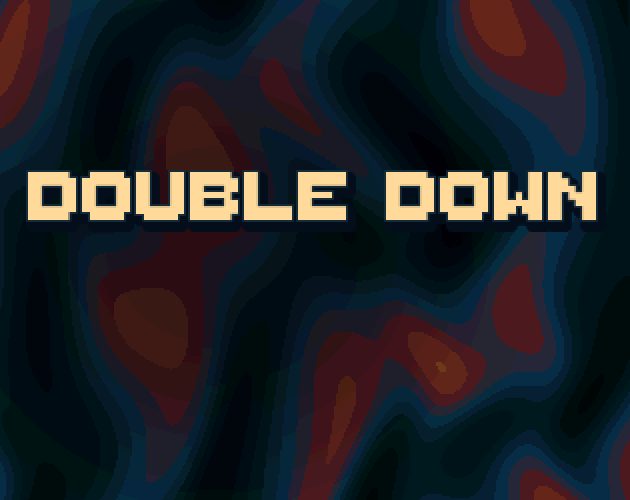
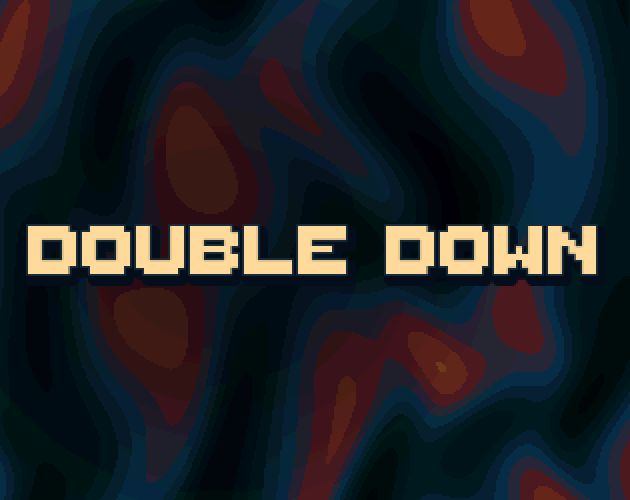
Prepare WebGL itch release and prismatic card shader

Changed region(s): [[0.0302, 0.33, 0.573, 0.57], [0.6032, 0.33, 0.9651, 0.57]]

diff --git a/docs/itch/DESCRIPTION_ITCH.html b/docs/itch/DESCRIPTION_ITCH.html
@@ -1,9 +1,9 @@
 <h2>Español</h2>
 <p><strong>DOUBLE DOWN</strong> mezcla blackjack y construcción de mazos. Supera la meta antes de agotar tus manos, compra reliquias y mejora tus cartas. Cada tercera ronda cambia las reglas con un jefe.</p>
 <p><strong>Cómo jugar:</strong> elige una reliquia inicial. Pide cartas o plántate sin pasar de 21. Gana puntos, visita la tienda y usa consumibles desde el mazo. Ratón y teclado; puedes cambiar las teclas en Ajustes y el idioma en el menú.</p>
-<p>Descarga el ZIP para Windows, extráelo y abre <strong>DoubleDown.exe</strong>.</p>
+<p><strong>Juega directamente en el navegador.</strong></p>
 
 <h2>English</h2>
 <p><strong>DOUBLE DOWN</strong> blends blackjack with deck building. Reach the target before you run out of hands, buy relics and upgrade your cards. Every third round brings a boss rule.</p>
 <p><strong>How to play:</strong> choose a starting relic. Hit or stand without going over 21. Score points, visit the shop and use consumables from your deck. Mouse and keyboard; rebind keys in Settings and switch languages in the menu.</p>
-<p>Download the Windows ZIP, extract it and launch <strong>DoubleDown.exe</strong>.</p>
+<p><strong>Play directly in your browser.</strong></p>

diff --git a/Assets/_Game/Editor/PortfolioBuild.cs b/Assets/_Game/Editor/PortfolioBuild.cs
@@ -40,5 +40,33 @@ namespace DoubleDown.Editor
             Directory.CreateDirectory("docs");File.WriteAllText("docs/PORTFOLIO_BUILD_RESULT.txt",$"Result: {report.summary.result}\nErrors: {report.summary.totalErrors}\nWarnings: {report.summary.totalWarnings}\nBytes: {report.summary.totalSize}\nUnity: {Application.unityVersion}\n");
             if(report.summary.result!=BuildResult.Succeeded || report.summary.totalErrors>0)throw new InvalidOperationException("Portfolio build failed");
         }
+        [MenuItem("Double Down/Portfolio/Build WebGL for itch.io")]
+        public static void BuildWeb()
+        {
+            Prepare();
+            PlayerSettings.WebGL.compressionFormat=WebGLCompressionFormat.Gzip;
+            PlayerSettings.WebGL.decompressionFallback=false;
+            var target=Environment.GetEnvironmentVariable("DOUBLEDOWN_WEB_BUILD_DIR");
+            if(string.IsNullOrWhiteSpace(target))target="Builds/DoubleDown-0.1.1-WebGL";
+            Directory.CreateDirectory(target);
+            var report=BuildPipeline.BuildPlayer(new BuildPlayerOptions
+            {
+                scenes=new[]{Menu,Table},locationPathName=target,target=BuildTarget.WebGL,options=BuildOptions.None
+            });
+              if(report.summary.result==BuildResult.Succeeded)
+              {
+                  var index=Path.Combine(target,"index.html");
+                  var html=File.ReadAllText(index)
+                      .Replace("Unity Web Player | DOUBLE DOWN","DOUBLE DOWN")
+                      .Replace("width=960 height=600","width=960 height=540")
+                      .Replace("canvas.style.height = \"600px\";","canvas.style.height = \"540px\";")
+                      .Replace("</head>","<style>html,body{width:100%;height:100%;overflow:hidden;background:#111a26}#unity-container.unity-desktop{position:relative;left:auto;top:auto;transform:none;width:min(100vw,177.7778vh);height:min(100vh,56.25vw);margin:auto}#unity-canvas{width:100%!important;height:100%!important;image-rendering:pixelated}#unity-footer,#unity-logo{display:none!important}#unity-loading-bar{z-index:2}</style></head>");
+                  File.WriteAllText(index,html);
+              }
+            Directory.CreateDirectory("docs");
+            File.WriteAllText("docs/WEB_BUILD_RESULT.txt",$"Result: {report.summary.result}\nErrors: {report.summary.totalErrors}\nWarnings: {report.summary.totalWarnings}\nBytes: {report.summary.totalSize}\nUnity: {Application.unityVersion}\n");
+            if(report.summary.result!=BuildResult.Succeeded || report.summary.totalErrors>0)
+                throw new InvalidOperationException("WebGL build failed");
+        }
     }
 }

diff --git a/Assets/_Game/Tests/PlayMode/PresentationSettingsTests.cs b/Assets/_Game/Tests/PlayMode/PresentationSettingsTests.cs
@@ -304,6 +304,28 @@ namespace DoubleDown.Tests
         }
 
         [UnityTest]
+        public IEnumerator PrismConsumableChangesCardShaderEdition()
+        {
+            SceneManager.LoadScene("BlackjackTable");yield return new WaitForSecondsRealtime(0.6f);
+            ChooseStarter();
+            var controller=Object.FindFirstObjectByType<BlackjackTableController>();
+            var flags=System.Reflection.BindingFlags.NonPublic|System.Reflection.BindingFlags.Instance;
+            var session=(DoubleDown.Blackjack.BlackjackSession)typeof(BlackjackTableController).GetField("session",flags).GetValue(controller);
+            var inventory=(DoubleDown.Scoring.RunInventory)typeof(BlackjackTableController).GetField("inventory",flags).GetValue(controller);
+            var card=session.Hands[0].Cards[0];
+            var prism=System.Array.Find(Resources.LoadAll<DoubleDown.Scoring.ConsumableDefinition>("Consumables"),x=>x.id=="C10");
+            Assert.IsTrue(inventory.Deck.Use(prism,card.InstanceId));
+            Assert.AreEqual(2,inventory.Deck.Find(card.InstanceId)[DoubleDown.Scoring.CardLayer.Edition].visualEdition);
+            if(session.Phase==DoubleDown.Blackjack.BlackjackPhase.Insurance)session.ChooseInsurance(false);
+            if(session.Phase==DoubleDown.Blackjack.BlackjackPhase.PlayerTurn)session.Stand();
+            while(session.Phase==DoubleDown.Blackjack.BlackjackPhase.DealerTurn)session.AdvanceDealerStep();
+            var visuals=(Dictionary<DoubleDown.Blackjack.PlayingCard,BlackjackCardVisual>)typeof(BlackjackTableController).GetField("visibleCards",flags).GetValue(controller);
+            var block=new MaterialPropertyBlock();visuals[card].GetComponent<SpriteRenderer>().GetPropertyBlock(block);
+            Assert.AreEqual(2f,block.GetFloat("_Edition"));
+            yield return new WaitForSecondsRealtime(0.3f);Capture("PrismaticCard.png");
+        }
+
+        [UnityTest]
         public IEnumerator FullRelicRackDisablesShopPurchase()
         {
             SceneManager.LoadScene("BlackjackTable");yield return new WaitForSecondsRealtime(0.6f);

diff --git a/Assets/_Game/Runtime/Presentation/PortfolioMenu.cs b/Assets/_Game/Runtime/Presentation/PortfolioMenu.cs
@@ -26,8 +26,12 @@ namespace DoubleDown.Presentation
             ui.Button(canvas.transform,"How To Play","COMO JUGAR",44,226,112,30,()=>Open(help));
             ui.Button(canvas.transform,"Settings","AJUSTES",168,226,112,30,()=>GetComponent<TablePresentation>().Toggle());
             ui.Button(canvas.transform,"Credits","CREDITOS",44,270,112,30,()=>Open(credits));
+#if UNITY_WEBGL && !UNITY_EDITOR
+            ui.Button(canvas.transform,"Language","ENGLISH",168,270,112,30,()=>{GameLanguage.Toggle();RefreshLanguage();});
+#else
             ui.Button(canvas.transform,"Quit","SALIR",168,270,112,30,Application.Quit);
             ui.Button(canvas.transform,"Language","ENGLISH",168,310,112,26,()=>{GameLanguage.Toggle();RefreshLanguage();});
+#endif
             ui.Text(canvas.transform,"Version","v0.1.1",44,332,110,20);
             for(var i=0;i<decoration.Length;i++)
             {
@@ -67,7 +71,11 @@ namespace DoubleDown.Presentation
                 "DOUBLE DOWN / JUANGG11\n\nCARDS, SYMBOLS AND SFX: KENNEY / CC0.\nUI: CRUSENHO AGUS HENNIHUNO / CC BY 4.0.\nCRUSENHO.ITCH.IO / ADAPTED TINTS AND SCALE.\nKEYS: GERALD'S KEYS / CC0.\nFONT: THALEAH / TINY WORLDS.\n\nITEM ICONS ARE TEMPORARY.\nLICENSES AND CREDITS ARE IN THE PACKAGE.");
             GetComponent<TablePresentation>().RefreshLanguage();
         }
-        private void Set(string name,string es,string en) => canvas.transform.Find(name+"/Label").GetComponent<UnityEngine.UI.Text>().text=GameLanguage.Pick(es,en);
+        private void Set(string name,string es,string en)
+        {
+            var label=canvas.transform.Find(name+"/Label");
+            if(label!=null)label.GetComponent<UnityEngine.UI.Text>().text=GameLanguage.Pick(es,en);
+        }
         private static void SetModal(GameObject root,string titleEs,string titleEn,string bodyEs,string bodyEn)
         {
             var body=root.transform.Find("Body");

diff --git a/Assets/_Game/Runtime/Presentation/TablePresentation.cs b/Assets/_Game/Runtime/Presentation/TablePresentation.cs
@@ -54,8 +54,12 @@ namespace DoubleDown.Presentation
             Button(body.transform, "Controls", "CONTROLES", 210, 186, () => controlMenu.Show(), 170);
             Button(body.transform, "Display", "VENTANA / COMPLETA", 20, 228, () =>
             {
+#if UNITY_WEBGL && !UNITY_EDITOR
+                Screen.fullScreen=!Screen.fullScreen;
+#else
                 var mode=Screen.fullScreenMode==FullScreenMode.Windowed?FullScreenMode.FullScreenWindow:FullScreenMode.Windowed;
                 Screen.SetResolution(mode==FullScreenMode.Windowed?1280:Display.main.systemWidth,mode==FullScreenMode.Windowed?720:Display.main.systemHeight,mode);
+#endif
             },170);
             if(GetComponent<BlackjackTableController>()!=null)
                 Button(body.transform,"Main Menu","MENU PRINCIPAL",210,228,()=>GetComponent<RunEndView>().ConfirmLeave(),170);
@@ -93,7 +97,11 @@ namespace DoubleDown.Presentation
             SetLabel(body,"Volume","VOLUMEN +","VOLUME +");
             SetLabel(body,"Motion","MOVIMIENTO","MOTION");
             SetLabel(body,"Controls","CONTROLES","CONTROLS");
+#if UNITY_WEBGL && !UNITY_EDITOR
+            SetLabel(body,"Display","PANTALLA COMPLETA","FULLSCREEN");
+#else
             SetLabel(body,"Display","VENTANA / COMPLETA","WINDOW / FULLSCREEN");
+#endif
             if(body.Find("Main Menu")!=null)SetLabel(body,"Main Menu","MENU PRINCIPAL","MAIN MENU");
             SetLabel(body,"Close","VOLVER","BACK");
             var shortcut=drawer.transform.parent.Find("Open Settings/Label");

diff --git a/tools/package_itch_web.py b/tools/package_itch_web.py
@@ -1,0 +1,22 @@
+"""Create an itch.io HTML Game ZIP with index.html at archive root."""
+from pathlib import Path
+from zipfile import ZipFile, ZIP_DEFLATED
+
+root = Path(__file__).resolve().parents[1]
+build = root / "Builds" / "DoubleDown-0.1.1-WebGL"
+archive = build.parent / (build.name + ".zip")
+if not (build / "index.html").is_file():
+    raise SystemExit("WebGL build is missing index.html")
+files = sorted(path for path in build.rglob("*") if path.is_file())
+files += [root / "docs/itch/CREDITS.txt", root / "docs/itch/UI_LICENSE.txt"]
+if len(files) > 1000 or any(path.stat().st_size > 200_000_000 for path in files):
+    raise SystemExit("Build exceeds itch.io HTML ZIP limits")
+if sum(path.stat().st_size for path in files) > 500_000_000:
+    raise SystemExit("Extracted build exceeds itch.io HTML ZIP limit")
+with ZipFile(archive, "w", ZIP_DEFLATED, compresslevel=6) as output:
+    for path in files:
+        name = path.relative_to(build).as_posix() if path.is_relative_to(build) else path.name
+        if len(name) > 240:
+            raise SystemExit("Archive path exceeds itch.io limit: " + name)
+        output.write(path, name)
+print(archive)

diff --git a/tools/serve_webgl.py b/tools/serve_webgl.py
@@ -1,0 +1,29 @@
+"""Serve the WebGL build locally with the gzip headers Unity expects."""
+from functools import partial
+from http.server import SimpleHTTPRequestHandler, ThreadingHTTPServer
+from pathlib import Path
+
+root = Path(__file__).resolve().parents[1] / "Builds/DoubleDown-0.1.1-WebGL"
+
+
+class Handler(SimpleHTTPRequestHandler):
+    def guess_type(self, path):
+        if path.endswith(".wasm.gz"):
+            return "application/wasm"
+        if path.endswith(".js.gz"):
+            return "application/javascript"
+        if path.endswith(".data.gz"):
+            return "application/octet-stream"
+        return super().guess_type(path)
+
+    def end_headers(self):
+        if self.path.split("?", 1)[0].endswith(".gz"):
+            self.send_header("Content-Encoding", "gzip")
+        super().end_headers()
+
+
+if __name__ == "__main__":
+    if not (root / "index.html").is_file():
+        raise SystemExit("Build WebGL before starting the server")
+    print("http://127.0.0.1:8765", flush=True)
+    ThreadingHTTPServer(("127.0.0.1", 8765), partial(Handler, directory=str(root))).serve_forever()

diff --git a/tools/generate_itch_art.py b/tools/generate_itch_art.py
@@ -58,7 +58,7 @@ title = "DOUBLE DOWN"
 box = draw.textbbox((0, 0), title, font=font)
 tw = box[2] - box[0]
 tx = (315 - tw) // 2
-ty = 86 - box[1]
+ty = (250 - (box[3] - box[1])) // 2 - box[1]
 draw.text((tx + 2, ty + 3), title, font=font, fill=(4, 13, 26), stroke_width=3, stroke_fill=(4, 13, 26))
 draw.text((tx, ty), title, font=font, fill=(255, 218, 154), stroke_width=1, stroke_fill=(21, 44, 58))
 capsule.resize((630, 500), Image.Resampling.NEAREST).save(OUT / "DoubleDown_Capsule_630x500.png", optimize=True)

diff --git a/docs/ITCH_IO_RELEASE.md b/docs/ITCH_IO_RELEASE.md
@@ -1,12 +1,10 @@
-# DOUBLE DOWN — itch.io
+# DOUBLE DOWN — publicación web en itch.io
 
-- Proyecto descargable para Windows. Título: **DOUBLE DOWN**. Estado: **In development**.
-- Portada: `itch/DoubleDown_Capsule_630x500.png` (630×500, relación 315:250).
-- Fondo de página: `itch/DoubleDown_PageBackground_1920x1080.png`.
+- Tipo de proyecto: **HTML Game**. Subir `Builds/DoubleDown-0.1.1-WebGL.zip` como archivo jugable en navegador. `index.html` está en la raíz del ZIP. Tamaño inicial del marco: **960×540**; permitir pantalla completa.
+- Portada: `itch/DoubleDown_Capsule_630x500.png`. Fondo de la página: `itch/DoubleDown_PageBackground_1920x1080.png`.
 - Descripción: pegar `itch/DESCRIPTION_ITCH.html` en el modo HTML (`<>`) del editor de itch.io.
-- Subir `Builds/DoubleDown-0.1.1-Windows-x64.zip` como descarga de Windows. El usuario publicará la página.
-- Capturas reales: `PortfolioMenu.png`, `Phase6Deck.png`, `Phase6Shop.png` y `itch/StarterChoice.png`.
+- Capturas reales: `PortfolioMenu.png`, `Phase6Deck.png`, `Phase6Shop.png`, `itch/StarterChoice.png`.
 
-El juego usa ratón y teclado. La versión 0.1.1 incorpora selección de reliquia inicial e interfaz en español e inglés. Los nombres propios de objetos permanecen en español. Las runs no se guardan al salir.
+El navegador debe admitir WebGL 2, WebAssembly y audio tras la primera interacción. El contenido se ha probado en escritorio; la interfaz está diseñada para 16:9. Las runs no se guardan al salir.
 
-La portada y el fondo son fotogramas estáticos generados con las mismas ecuaciones y paleta del shader `CasinoVortex.shader`. El script `tools/generate_itch_art.py` permite regenerarlos.
+La edición Prisma se obtiene con el consumible C10 y aplica la modificación E02: +0,6 MULT por carta y bandas de color pixeladas animadas. La portada y el fondo de itch.io son imágenes estáticas basadas en las ecuaciones y paleta de `CasinoVortex.shader`.
